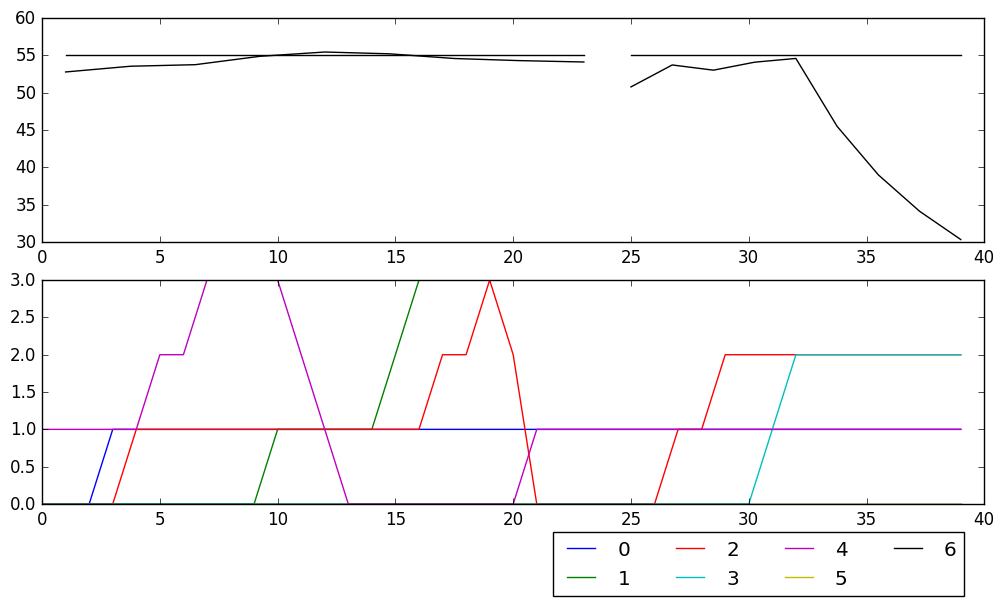
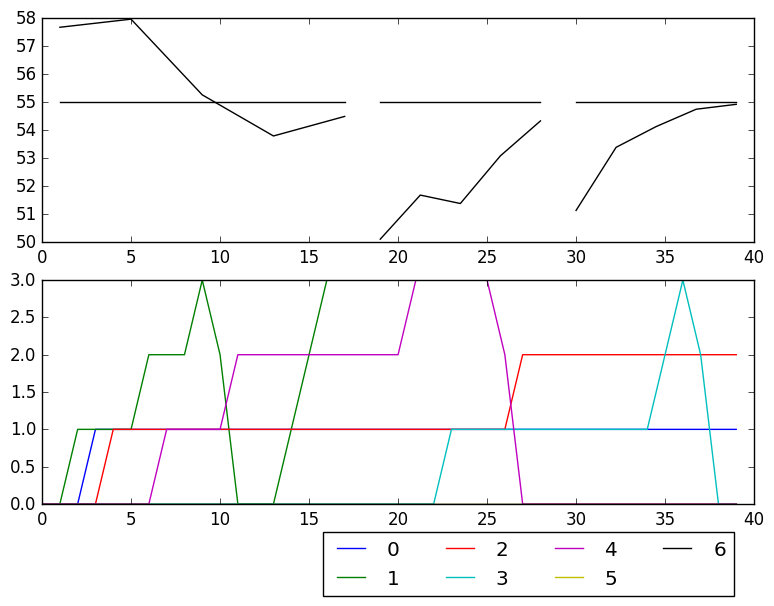
minor updates to config and results

diff --git a/ea/destinations_ga.py b/ea/destinations_ga.py
@@ -31,7 +31,7 @@ from deap import base
 from deap import creator
 from deap import tools
 
-creator.create("FitnessMax", base.Fitness, weights=(-1.0,))
+creator.create("FitnessMin", base.Fitness, weights=(-1.0,))
 creator.create("Individual", numpy.ndarray, fitness=creator.FitnessMin)
 
 toolbox = base.Toolbox()

diff --git a/ea/sim_eval.py b/ea/sim_eval.py
@@ -207,7 +207,7 @@ class Stockpile_sim(object):
         Destination problem simulation
         """               
         self.ndiggers = 2 
-        self.nblocks = 8 
+        self.nblocks = 11
         self.ntime = time_periods  
         
         self.npiles = num_stockpiles
